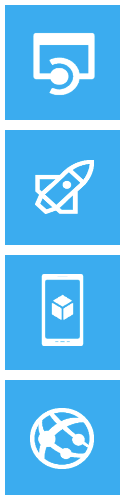
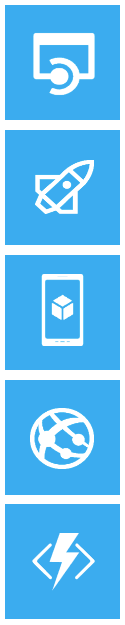
Add Try Functions to the appservice list

Changed region(s): [[0.024, 0.24, 0.96, 0.96], [0.024, 0.03, 0.96, 0.21], [0.048, 0.99, 0.96, 1.0]]

diff --git a/SimpleWAWS/Scripts/staticDataFactory.ts b/SimpleWAWS/Scripts/staticDataFactory.ts
@@ -49,7 +49,18 @@ angular.module("tryApp")
                 }],
                 templates: [],
                 description: Resources.Information_MobileAppDescription
-            }, {
+                }, {
+                    name: "FunctionApp",
+                    sprite: "sprite-FunctionApp",
+                    title: Resources.Information_FunctionApp,
+                    steps: [{
+                        id: 1,
+                        title: Resources.Information_SelectTemplate,
+                        sref: "home"
+                    }],
+                    templates: [],
+                    description: Resources.Information_FunctionAppDescription
+                }, {
                 name: "Api",
                 sprite: "sprite-ApiApp",
                 title: Resources.Information_APIApp,

diff --git a/SimpleWAWS/Scripts/Resources.d.ts b/SimpleWAWS/Scripts/Resources.d.ts
@@ -7,6 +7,8 @@
     export var Information_LogicApp: string;
     export var Information_WebApp: string;
     export var Information_APIApp: string;
+    export var Information_FunctionApp: string;
+    export var Information_FunctionAppDescription: string;
     export var Information_MobileApp: string;
     export var Action_SelectAppType: string;
     export var Action_SelectTemplate: string;

diff --git a/SimpleWAWS/Content/Site.css b/SimpleWAWS/Content/Site.css
@@ -9260,6 +9260,11 @@ div.sprite-WebApp {
     background-position: -5px -380px;
 }
 
+div.sprite-FunctionApp {
+    width: 115px;
+    height: 115px;
+    background-position: -5px -504px;
+}
 div.mobile-icons {
     background: url(/Content/images/mobile-clients.png) no-repeat top left;
 }

diff --git a/SimpleWAWS/Resources/Client.Designer.cs b/SimpleWAWS/Resources/Client.Designer.cs
@@ -590,7 +590,29 @@ namespace SimpleWAWS.Resources {
                 return ResourceManager.GetString("Information_ExtendResourceLifeTimeText", resourceCulture);
             }
         }
-        
+
+        /// <summary>
+        ///   Looks up a localized string similar to Function App.
+        /// </summary>
+        public static string Information_FunctionApp
+        {
+            get
+            {
+                return ResourceManager.GetString("Information_FunctionApp", resourceCulture);
+            }
+        }
+
+        /// <summary>
+        ///   Looks up a localized string similar to Azure Functions is a serverless event driven experience  that extends the existing Azure App Service platform. These nano-services can scale based on demand and you pay only for the resources you consume..
+        /// </summary>
+        public static string Information_FunctionAppDescription
+        {
+            get
+            {
+                return ResourceManager.GetString("Information_FunctionAppDescription", resourceCulture);
+            }
+        }
+
         /// <summary>
         ///   Looks up a localized string similar to Azure App Service is a cloud app service that integrates everything you need to quickly and easily build web and mobile apps for any platform or device..
         /// </summary>
@@ -1211,5 +1233,17 @@ namespace SimpleWAWS.Resources {
                 return ResourceManager.GetString("Twitter", resourceCulture);
             }
         }
+
+        /// <summary>
+        ///   Looks up a localized string similar to Try Functions.
+        /// </summary>
+        public static string TryFunctions
+        {
+            get
+            {
+                return ResourceManager.GetString("TryFunctions", resourceCulture);
+            }
+        }
+
     }
 }
